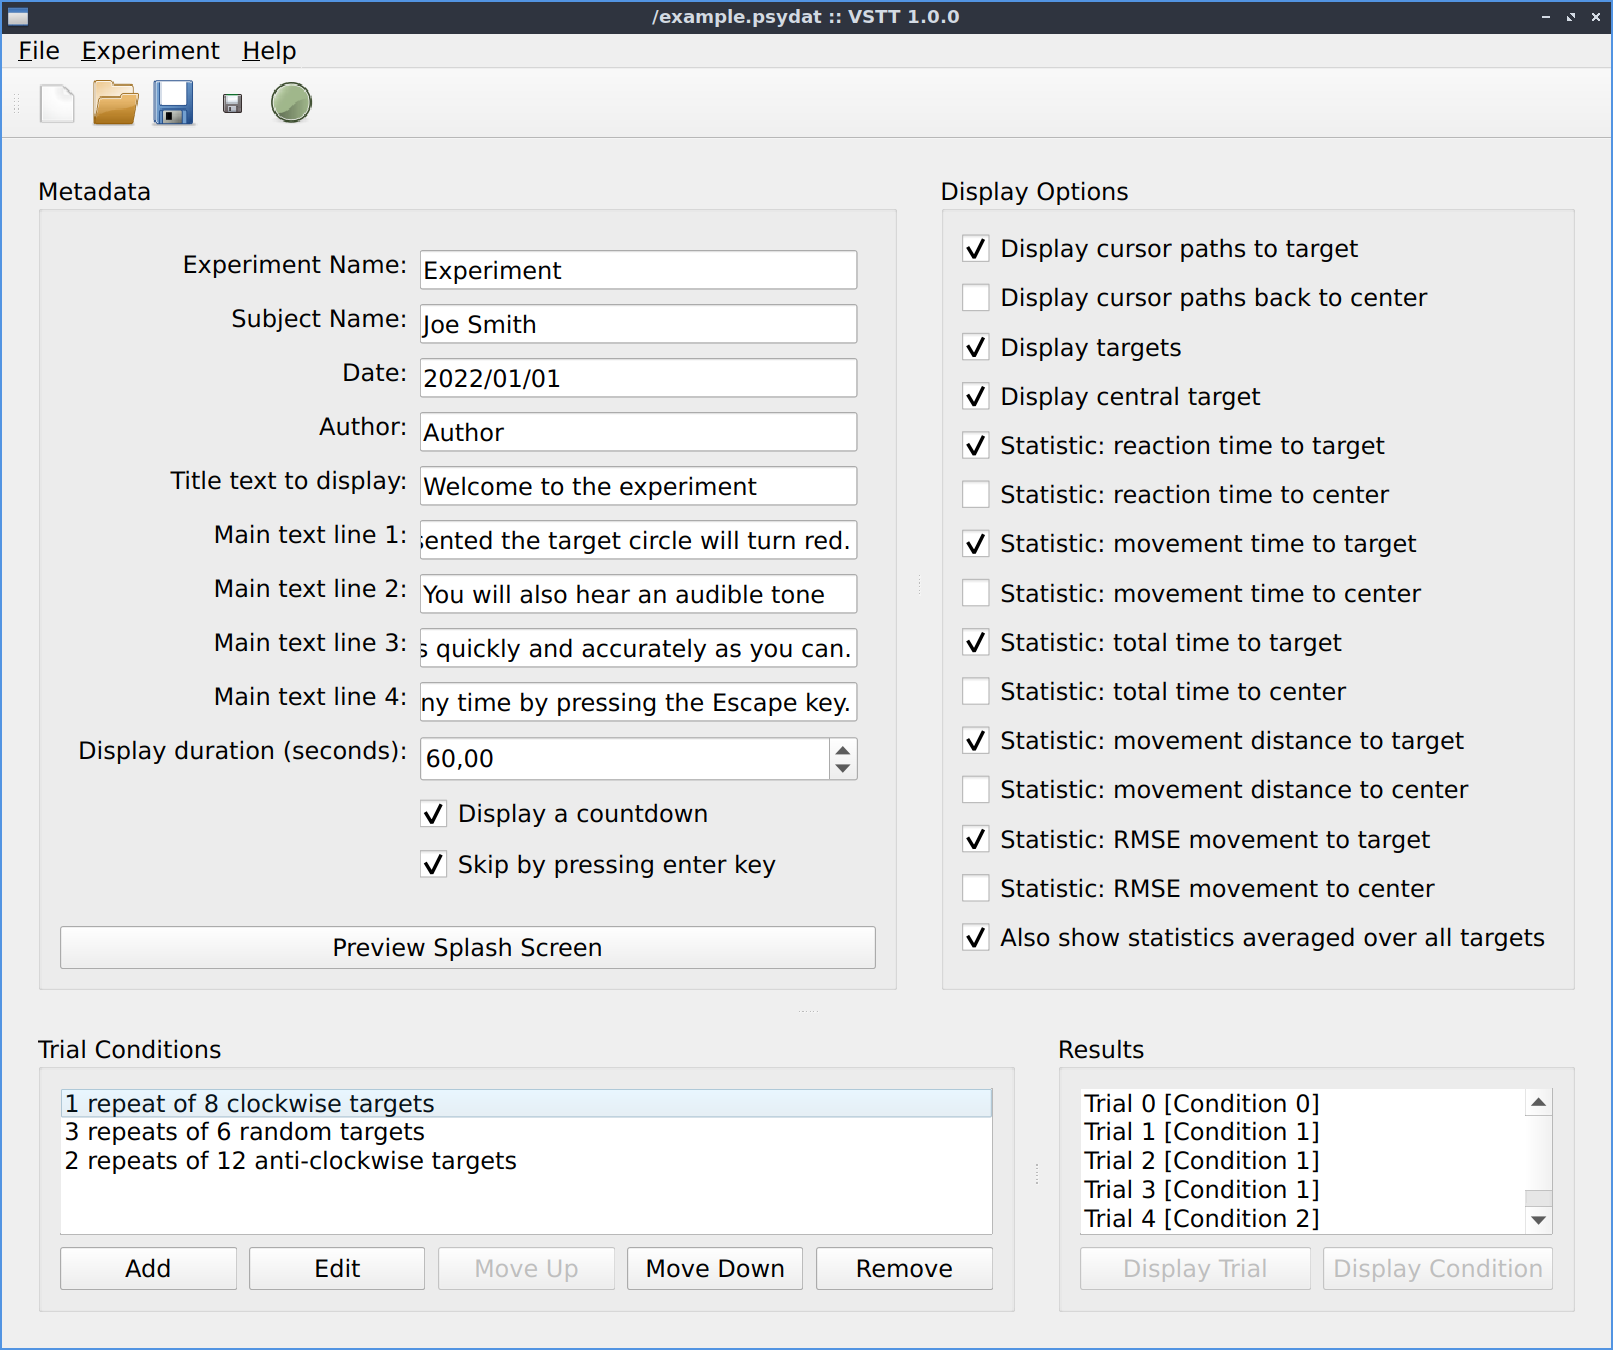
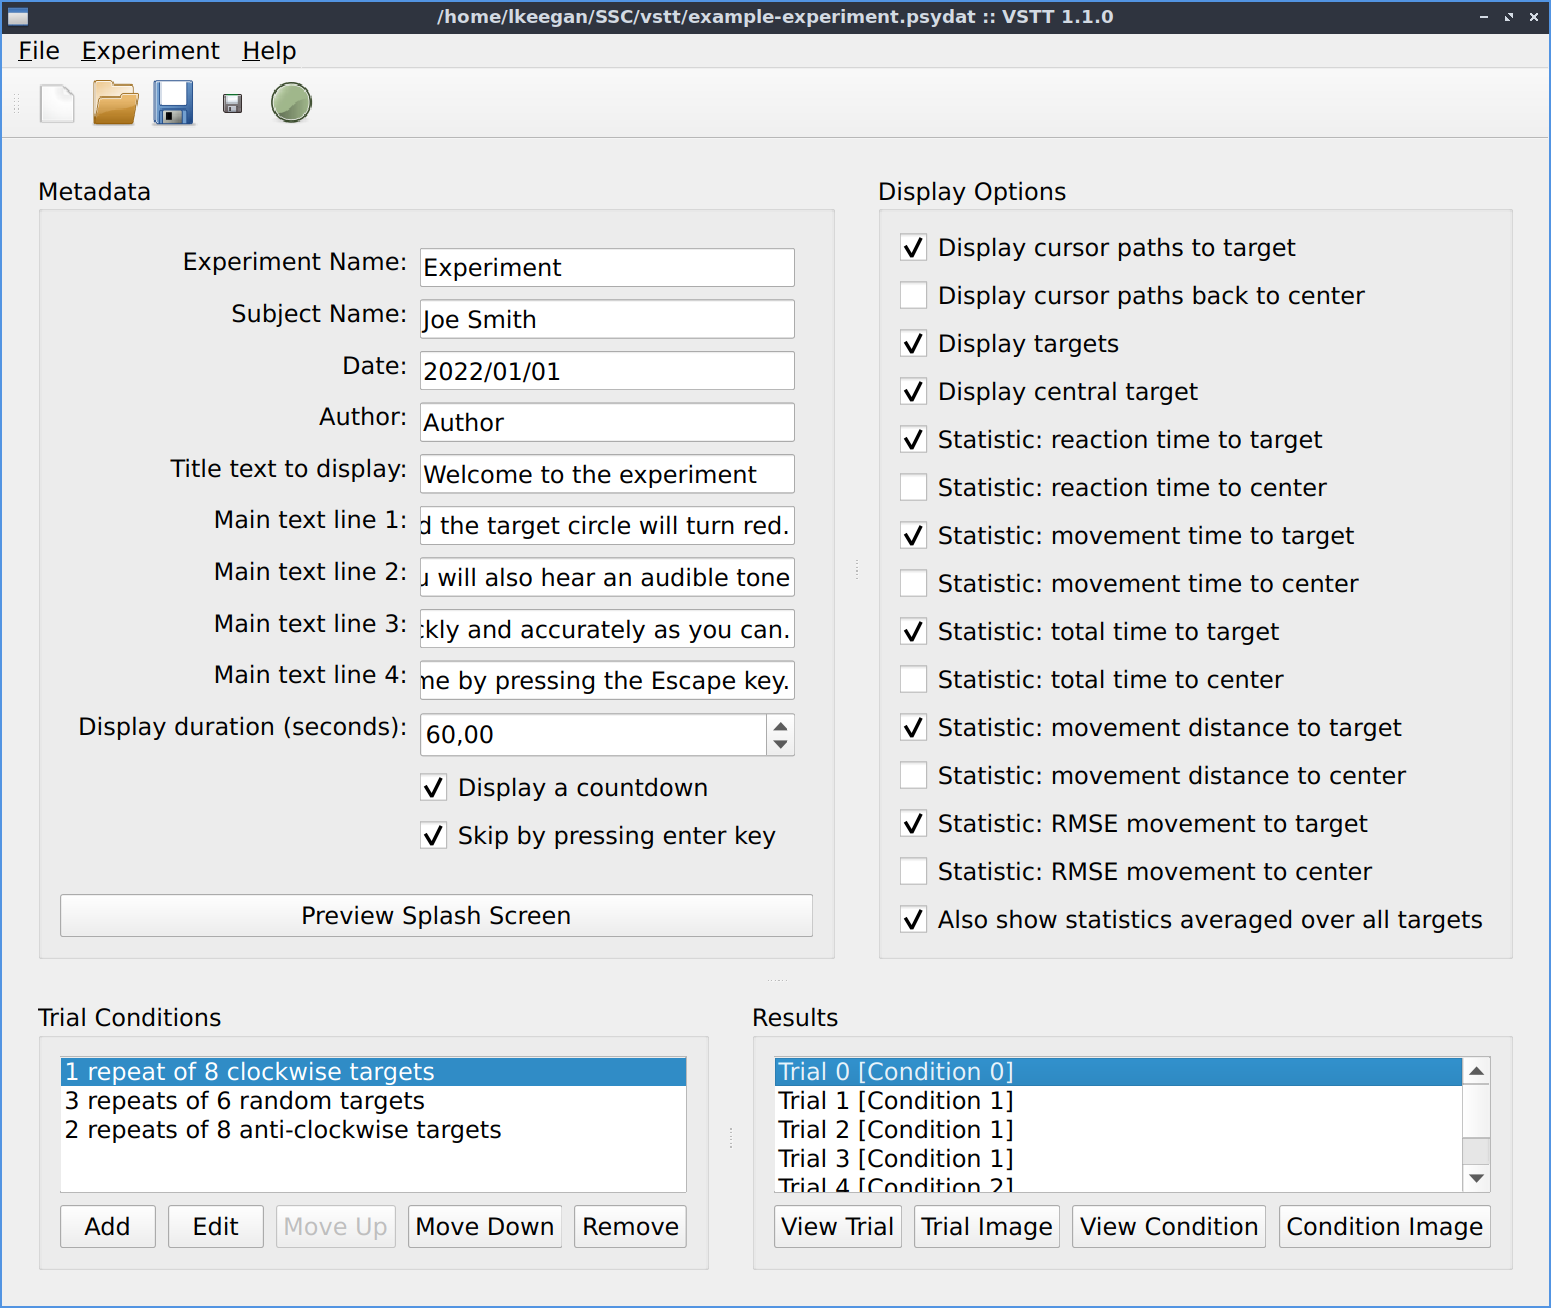
Version 1.1.0
- bump version to 1.1.0
- update docs & screenshots
- update changelog
- add example experiment used in screenshots to repo

diff --git a/src/vstt/__init__.py b/src/vstt/__init__.py
@@ -5,4 +5,4 @@ __all__ = [
     "__version__",
 ]
 
-__version__ = "1.0.0"
+__version__ = "1.1.0"

diff --git a/docs/quickstart/share-experiment.rst b/docs/quickstart/share-experiment.rst
@@ -1,96 +1,13 @@
 Sharing experiments
 ===================
 
-Experiments can be exported in different formats: psydat, Excel, and json.
-Psydat is the default format used by VSTT,
-which can also be opened from Python scripts or Jupyter notebooks.
-The Excel and json formats are provided to allow experiments
-and results to be shared, analysed and modified
+There are several ways to share experiment setups and results with others.
+
+If they also install VSTT then you can simply share the .psydat file,
+which contains both the experimental setup and any results.
+
+You can also export experiments in Excel or json format,
+which allows experiments and results to be shared, analysed and modified
 without requiring the VSTT software to do so.
 
-.. list-table:: File format comparison
-   :widths: 25 25 25 25
-   :header-rows: 1
-
-   * -
-     - psydat
-     - Excel
-     - json
-   * - Export experiment
-     - Yes
-     - Yes
-     - Yes
-   * - Import experiment
-     - Yes
-     - Yes
-     - Yes
-   * - Export results
-     - Yes
-     - Yes
-     - No
-   * - Import results
-     - Yes
-     - No
-     - No
-
-psydat
-------
-
-This is the default file format, which includes the experiment results.
-These files can be opened in the VSTT GUI or in Python
-(see the example notebook for more information).
-
-Excel
------
-
-Experiments can also be exported as Excel spreadsheets.
-The first 3 pages in the spreadsheet define the experiment:
-
-* metadata
-* display_options
-* trial_list
-
-These values can be edited in Excel and then the modified experiment can
-be opened in the VSTT GUI (File -> Open, choose Excel as filetype).
-Note that results are not imported from an Excel file.
-
-The excel sheet also contains a statistics page with calculated statistics for each trial.
-Then there is a sheet of data for each trial in the experiment with the following columns:
-
-* timestamps
-   * start at 0 for each trial, increase throughout the trial
-* mouse_positions_x
-   * x coordinate of mouse at this timestamp
-* mouse_positions_y
-   * y coordinate of mouse at this timestamp
-* i_target
-   * ``-99`` if no target is visible
-   * ``-1`` if central target is visible
-   * otherwise index (e.g. ``0``, ``1``, etc) of current displayed target
-* target_x
-   * x coordinate of currently visible target
-   * ``-99`` if no target is visible
-* target_y
-   * y coordinate of currently visible target
-   * ``-99`` if no target is visible
-
-There is also the option to export a separate page of data for each target,
-so a single trial with 8 targets would result in 8 separate pages of experiment data.
-In this case for each target the timestamps begin at a negative value,
-and reach zero when the target is displayed.
-
-json
-----
-
-Experiments can also be exported as a json text file.
-This is a convenient format for sharing experimental setups,
-as it can be easily read and modified in a text editor.
-These files can also be opened in the VSTT GUI
-(File -> Open, choose JSON as filetype).
-The json file contains all the information required to define the experiment:
-
-* metadata
-* display_options
-* trial_list
-
-This format does not include any statistics or experimental results.
+See :doc:`File formats <../reference/file-formats>` for more information.

diff --git a/docs/reference/file-formats.rst b/docs/reference/file-formats.rst
@@ -1,0 +1,96 @@
+File formats
+============
+
+Experiments can be imported and exported in different formats: psydat, Excel, and json.
+Psydat is the default format used by VSTT,
+which can also be opened from Python scripts or Jupyter notebooks.
+The Excel and json formats are provided to allow experiments
+and results to be shared, analysed and modified
+without requiring the VSTT software to do so.
+
+.. list-table:: File format comparison
+   :widths: 25 25 25 25
+   :header-rows: 1
+
+   * -
+     - psydat
+     - Excel
+     - json
+   * - Export experiment
+     - Yes
+     - Yes
+     - Yes
+   * - Import experiment
+     - Yes
+     - Yes
+     - Yes
+   * - Export results
+     - Yes
+     - Yes
+     - No
+   * - Import results
+     - Yes
+     - No
+     - No
+
+psydat
+------
+
+This is the default file format, which includes the experiment results.
+These files can be opened in the VSTT GUI or in Python
+(see the example notebook for more information).
+
+Excel
+-----
+
+Experiments can also be exported as Excel spreadsheets.
+The first 3 pages in the spreadsheet define the experiment:
+
+* metadata
+* display_options
+* trial_list
+
+These values can be edited in Excel and then the modified experiment can
+be opened in the VSTT GUI (File -> Open, choose Excel as filetype).
+Note that results are not imported from an Excel file.
+
+The excel sheet also contains a statistics page with calculated statistics for each trial.
+Then there is a sheet of data for each trial in the experiment with the following columns:
+
+* timestamps
+   * start at 0 for each trial, increase throughout the trial
+* mouse_positions_x
+   * x coordinate of mouse at this timestamp
+* mouse_positions_y
+   * y coordinate of mouse at this timestamp
+* i_target
+   * ``-99`` if no target is visible
+   * ``-1`` if central target is visible
+   * otherwise index (e.g. ``0``, ``1``, etc) of current displayed target
+* target_x
+   * x coordinate of currently visible target
+   * ``-99`` if no target is visible
+* target_y
+   * y coordinate of currently visible target
+   * ``-99`` if no target is visible
+
+There is also the option to export a separate page of data for each target,
+so a single trial with 8 targets would result in 8 separate pages of experiment data.
+In this case for each target the timestamps begin at a negative value,
+and reach zero when the target is displayed.
+
+json
+----
+
+Experiments can also be exported as a json text file.
+This is a convenient format for sharing experimental setups,
+as it can be easily read and modified in a text editor.
+These files can also be opened in the VSTT GUI
+(File -> Open, choose JSON as filetype).
+The json file contains all the information required to define the experiment:
+
+* metadata
+* display_options
+* trial_list
+
+This format does not include any statistics or experimental results.

diff --git a/docs/quickstart/display-results.rst b/docs/quickstart/display-results.rst
@@ -1,8 +1,10 @@
 Displaying results
 ==================
 
-To display the results from a trial, select it from the list and click "Display Trial".
-You can also display all the trials with the same conditions with "Display Condition".
+To display the results from a trial, select it from the list and click "View Trial".
+Alternatively click "Image Trial" to save a screenshot of these results as a png image file.
+For combined results from all the trials with the same trial conditions as the selected trial,
+click "View Condition" or "Image Condition".
 
 .. figure:: images/results-list.png
    :alt: Results

diff --git a/CHANGELOG.md b/CHANGELOG.md
@@ -1,5 +1,16 @@
 # Changelog
 
+## [1.1.0] - 2023-06-27
+
+### Added
+
+- option to save screenshot of results [#230](https://github.com/ssciwr/vstt/pull/230)
+- optional delay before central target is displayed [#228](https://github.com/ssciwr/vstt/pull/228)
+
+### Changed
+
+- trial stops when maximum condition time exceeded instead of allowing trial to complete [#229](https://github.com/ssciwr/vstt/pull/229)
+
 ## [1.0.0] - 2023-06-26
 
 First official release.

diff --git a/docs/index.rst b/docs/index.rst
@@ -18,6 +18,7 @@ Visuomotor Serial Targeting Task (VSTT)
    reference/trial-conditions
    reference/statistics
    reference/framerate
+   reference/file-formats
 
 .. toctree::
    :maxdepth: 2
